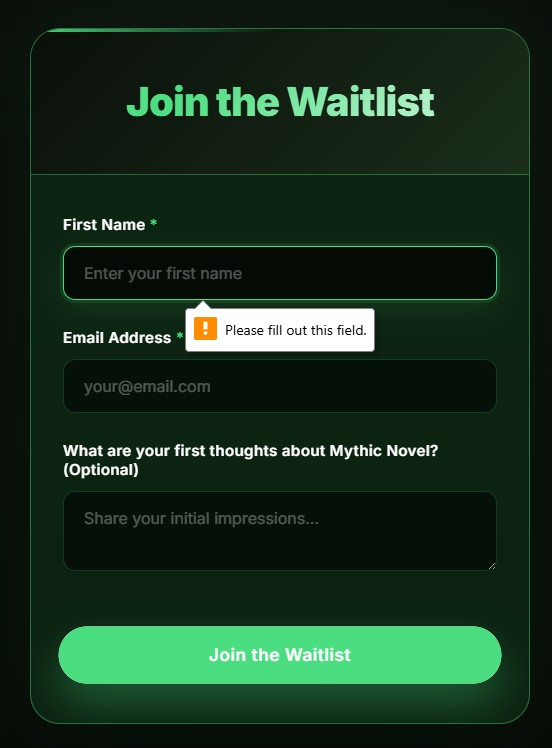
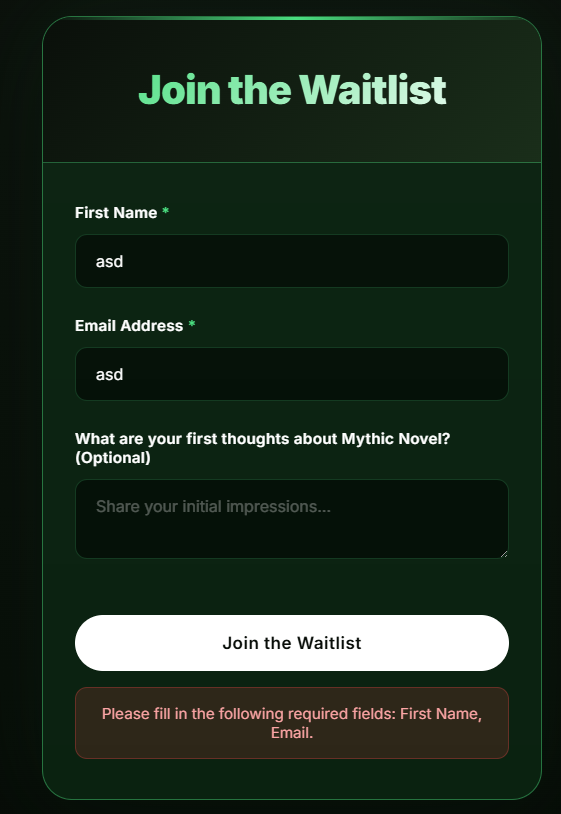
11 - join waitlist updated for the red lines on form

diff --git a/join-the-waitlist.html b/join-the-waitlist.html
@@ -615,31 +615,20 @@
             });
         });
 
-        // Clear error state when user types
-        document.getElementById('firstName').addEventListener('input', function() {
-            this.classList.remove('field-error');
-            // Check if we should hide the validation message
-            checkAndHideValidationMessage();
+        // Clear error state when user starts typing in required fields
+        ['firstName', 'email'].forEach(fieldId => {
+            const field = document.getElementById(fieldId);
+            field.addEventListener('input', function() {
+                this.classList.remove('field-error');
+                const validationMessage = document.getElementById('submitValidationMessage');
+                // Hide validation message if all required fields have values
+                const firstName = document.getElementById('firstName').value;
+                const email = document.getElementById('email').value;
+                if (firstName && email && email.includes('@')) {
+                    validationMessage.classList.remove('show');
+                }
+            });
         });
-
-        document.getElementById('email').addEventListener('input', function() {
-            this.classList.remove('field-error');
-            checkAndHideValidationMessage();
-        });
-
-        // Helper function to check if all required fields are filled and hide message
-        function checkAndHideValidationMessage() {
-            const validationMessage = document.getElementById('submitValidationMessage');
-
-            const hasFirstName = document.getElementById('firstName').value.trim() !== '';
-            const hasEmail = document.getElementById('email').value.trim() !== '';
-            const hasValidEmail = document.getElementById('email').value.includes('@');
-
-            // If all required fields are filled, hide the validation message
-            if (hasFirstName && hasEmail && hasValidEmail) {
-                validationMessage.classList.remove('show');
-            }
-        }
     </script>
 </body>
 </html>
